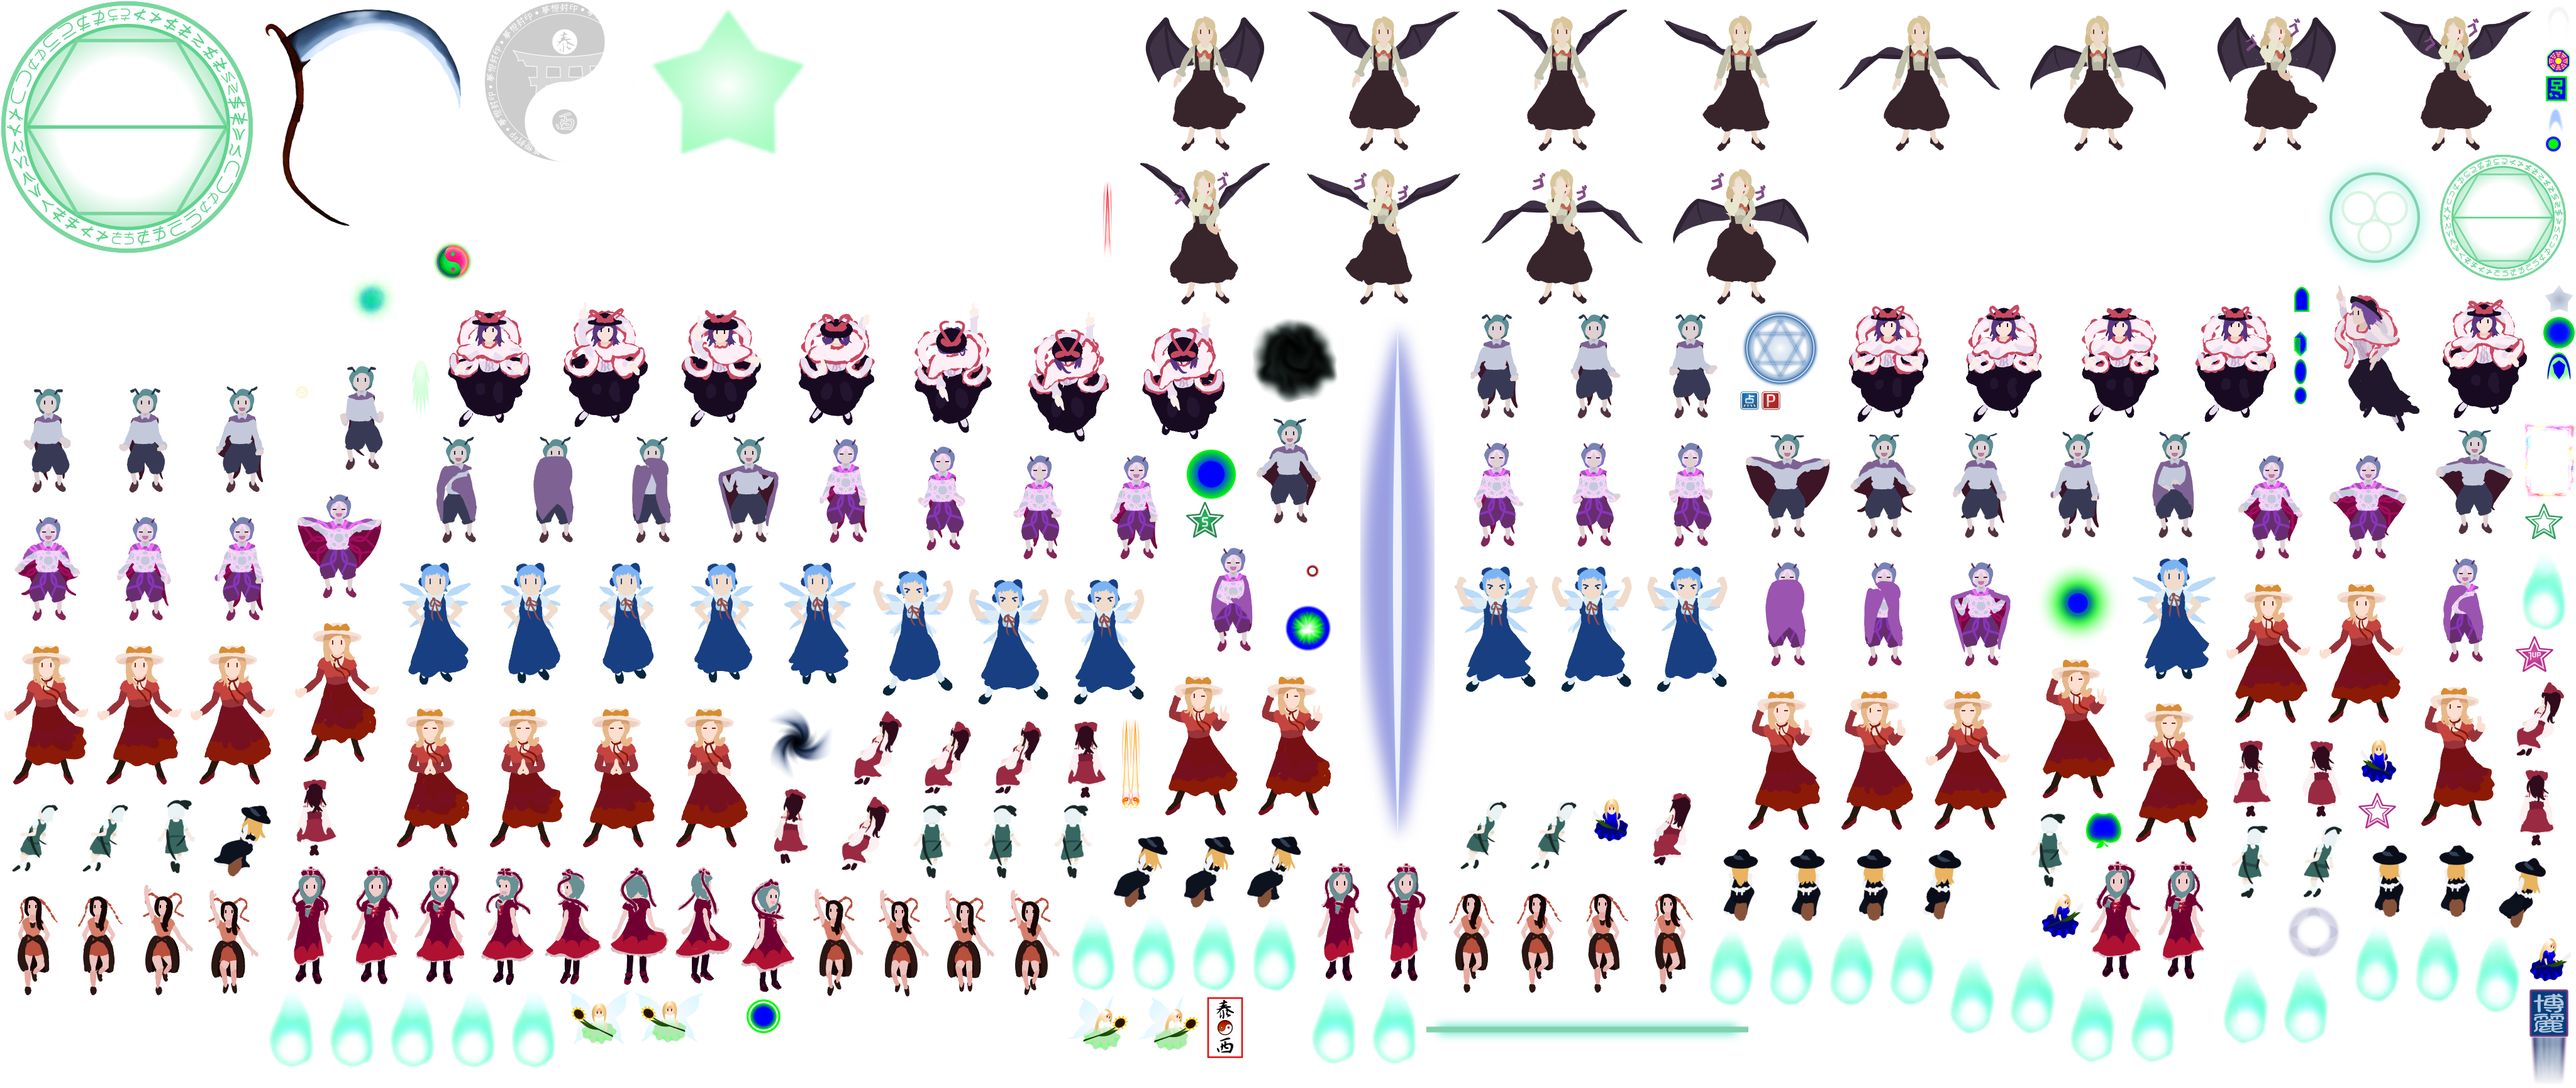
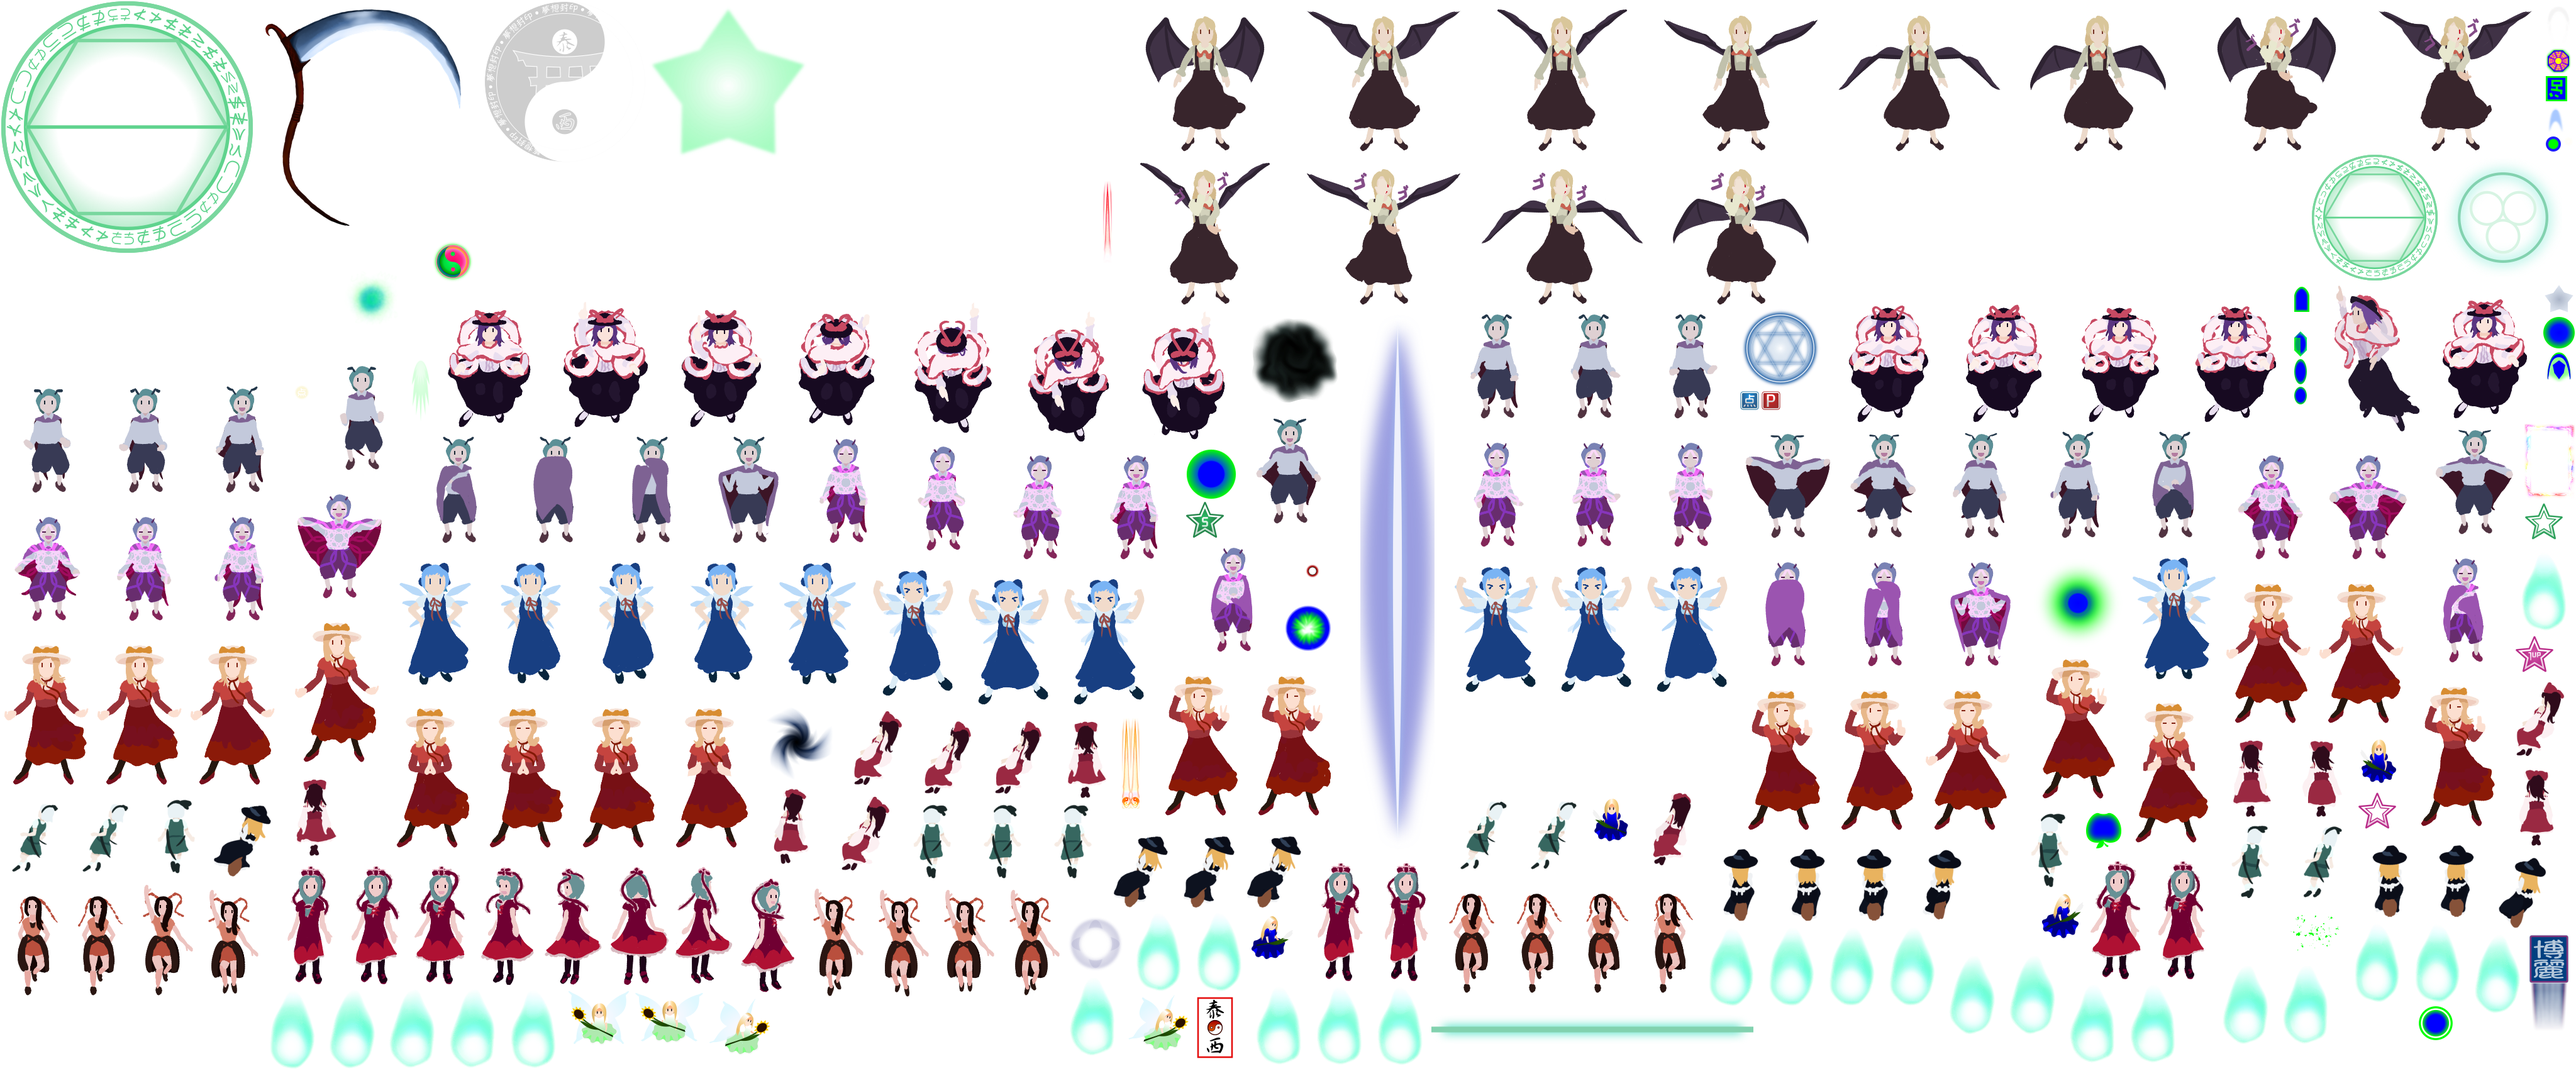
improve batching efficiency with bullet spawn flares

diff --git a/src/projectile.c b/src/projectile.c
@@ -736,7 +736,8 @@ static Projectile* spawn_projectile_highlight_effect_internal(Projectile *p, boo
 		sy = pow(p->sprite->h, 0.7);
 
 		PARTICLE(
-			.sprite = "stardust",
+			.sprite = "stardust_green",
+			.shader = "sprite_bullet",
 			.size = p->size * 4.5,
 			.layer = LAYER_PARTICLE_HIGH | 0x40,
 			.draw_rule = ScaleFade,
